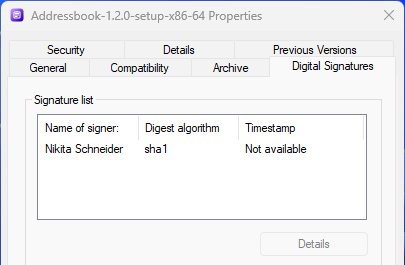
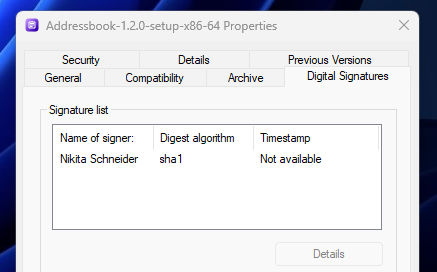
Refactoring

diff --git a/README.md b/README.md
@@ -16,16 +16,16 @@ npm run make
 ```
 ### Windows
 #### Binary
-<img src="https://raw.githubusercontent.com/dredwardhyde/addressbook-desktop-app/master/readme/windows_binary.png" width="882"/>  
+<img src="https://raw.githubusercontent.com/dredwardhyde/addressbook-desktop-app/master/readme/windows_binary.png" width="765"/>  
 
 #### Signature
-<img src="https://raw.githubusercontent.com/dredwardhyde/addressbook-desktop-app/master/readme/windows_signature.png" width="405"/>  
+<img src="https://raw.githubusercontent.com/dredwardhyde/addressbook-desktop-app/master/readme/windows_signature.png" width="437"/>  
 
 #### Control panel
 <img src="https://raw.githubusercontent.com/dredwardhyde/addressbook-desktop-app/master/readme/windows_installed_control_panel.png" width="1000"/>  
 
 #### Start Menu
-<img src="https://raw.githubusercontent.com/dredwardhyde/addressbook-desktop-app/master/readme/windows_installed_programs.png" width="289"/>  
+<img src="https://raw.githubusercontent.com/dredwardhyde/addressbook-desktop-app/master/readme/windows_installed_programs.png" width="298"/>  
 
 #### Desktop Shortcut
 <img src="https://raw.githubusercontent.com/dredwardhyde/addressbook-desktop-app/master/readme/windows_installed_shortcut.png" width="476"/>  
